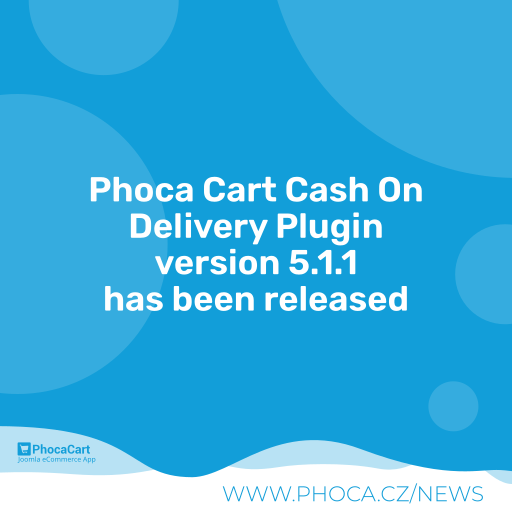
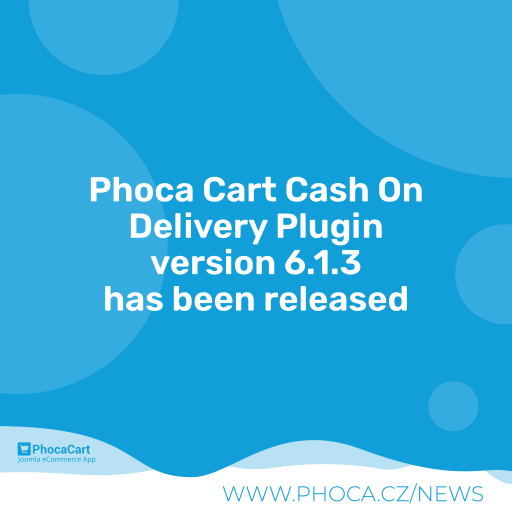
6.1.3

Changed region(s): [[0.2812, 0.4688, 0.7188, 0.5625]]

diff --git a/cash_on_delivery.php b/cash_on_delivery.php
@@ -19,6 +19,7 @@ class plgPCPCash_On_Delivery extends CMSPlugin
 {
 
 	protected $name 	= 'cash_on_delivery';
+	protected $autoloadLanguage = true;
 
 	function __construct(& $subject, $config) {
 		parent :: __construct($subject, $config);

diff --git a/README.MD b/README.MD
@@ -20,81 +20,69 @@ Our compliance with the principles of free and open-source software is establish
 
 *This repository is a shared community resource dedicated to the global open-source ecosystem.*
 
+### Community Feedback & Contributions
 
-## Project page
+We welcome your feedback and active involvement. You can join the development and follow the progress on public, independent GitHub pages at [https://github.com/PhocaCz](https://github.com/PhocaCz).
+Any feedback, bug reports, feature suggestions, or code improvements can be submitted transparently via **GitHub Issues** or **Pull Requests** within the respective repository.
 
-[Phoca Cart Cash On Delivery Plugin](https://www.phoca.cz/phocacart-extensions/2-plugins/4-payment-cash-on-delivery)
+### Accompanying External Resources
 
-[Phoca Cart Info Page](https://www.phoca.cz/project/phocacart-joomla-ecommerce)
+If you need additional information beyond this GitHub repository, further documentation, updates, and community channels are available on the following external websites:
 
+#### External Project Information
 
-
-## Documentation
-
-[Documentation](https://www.phoca.cz/documentation/category/115-phoca-cart)
-
-
-
-
-
-## Support
-
-[Phoca Forum](https://www.phoca.cz/forum)
-
-:bell: [Phoca Forum RSS](https://www.phoca.cz/forum/app.php/feed)
+- [Phoca Cart Cash On Delivery Plugin](https://www.phoca.cz/phocacart-extensions/2-plugins/4-payment-cash-on-delivery)
+- [Phoca Cart Info Page](https://www.phoca.cz/project/phocacart-joomla-ecommerce)
+- [Project is listed on Joomla Extensions Directory](https://extensions.joomla.org/)
+- [Project is listed on Phoca download directory](https://www.phoca.cz/download)
 
 
+#### External Documentation
 
-## News
-
-[Phoca News](https://www.phoca.cz/news)
-
-:bell: [Phoca News RSS](https://www.phoca.cz/news?format=feed&type=rss)
-
-:bell: [Phoca Latest Releases RSS](https://www.phoca.cz/download/feed/111?format=feed&type=rss)
+- [Documentation](https://www.phoca.cz/documentation/category/115-phoca-cart)
 
 
+#### External Community Support
 
-## Demo
+- [Phoca Forum](https://www.phoca.cz/forum)
+- [Joomla Forum](https://forum.joomla.org/)
+- [Joomlaportal.cz Forum - Czech](https://www.joomlaportal.cz/forum)
+- [Joomla.de Supportforum - German](https://forum.joomla.de/)
+- :bell: [Phoca Forum RSS](https://www.phoca.cz/forum/app.php/feed)
 
-[Joomla! - Phoca Cart Demo](https://www.phoca.cz/phocacartdemo/)
 
-[Joomla! - Phoca Cart - Phoca Premiere Template Demo](https://www.phoca.cz/phocacartdemo/premiere/)
+#### External News & Feeds
+
+- [Phoca News](https://www.phoca.cz/news)
+- [Joomlaportal.cz News](https://www.joomlaportal.cz/novinky)
+- :bell: [Phoca News RSS](https://www.phoca.cz/news?format=feed&type=rss)
+- :bell: [Phoca Latest Releases RSS](https://www.phoca.cz/download/feed/111?format=feed&type=rss)
 
 
+#### Demo
 
-## Version (Joomla! 3.x)
+- [Joomla! - Phoca Cart Demo](https://www.phoca.cz/phocacartdemo/)
+- [Joomla! - Phoca Cart - Phoca Premiere Template Demo](https://www.phoca.cz/phocacartdemo/premiere/)
 
+### Version (Joomla! 3.x - no longer supported)
 3.5.8
-
-## Version (Joomla! 4.x)
-
+### Version (Joomla! 4.x - no longer supported)
 4.0.12
-
-## Version (Joomla! 5.x)
-
+### Version (Joomla! 5.x - no longer supported)
 5.2.3
+### Version (Joomla! 6.x)
+6.1.3
 
-
-
-## License
+### License
 
 GNU/GPL
 
-
-
 This project is open source project - feel free to contribute! Thank you.
 
-
-
-## Social Media
+### Social Media
 
 - [Phoca on Facebook](https://www.facebook.com/Phoca.cz)
-
 - [Phoca on X (Twitter)](https://twitter.com/PhocaCz)
-
 - [Phoca on YouTube](https://www.youtube.com/user/phocavideos)
-
 - [Phoca on GitHub](https://github.com/PhocaCz)
-
 - [Phoca on Reddit](https://www.reddit.com/user/PhocaCz)

diff --git a/FOSS.md b/FOSS.md
@@ -1,0 +1,13 @@
+Free and Open Source Software (FOSS) Declaration
+
+This project is developed, distributed, and maintained strictly as **Free and Open Source Software (FOSS)**. It is provided entirely outside the course of any commercial activity as an independent public resource.
+
+Our compliance with the principles of free and open-source software is established by the following structural and operational guidelines:
+
+* **Strictly Non-Commercial & Public Good:** This software is provided 100% free of charge. No commercial entities control or fund this repository, and there are no commercial monetization models, paid subscriptions, or premium paywalls associated with this codebase.
+* **Independent Volunteer Contributions:** The development, maintenance, and testing of this extension are driven entirely by independent, voluntary contributions from the global community.
+* **No Commercial Technical Support:** Technical support is not provided as a paid commercial service by the maintainers of this repository. Community assistance is available on a voluntary, non-binding basis via public forums.
+* **No Proprietary Lock-in:** The software is licensed under the copyleft GNU General Public License (GPL). You have absolute freedom to run, study, share, modify, and redistribute the code.
+* **Decentralized Infrastructure:** This codebase is hosted in a public, transparent repository on GitHub to foster open collaborative development and public peer review, ensuring safety and quality through community vigilance.
+
+*This repository is a shared community resource dedicated to the global open-source ecosystem.*